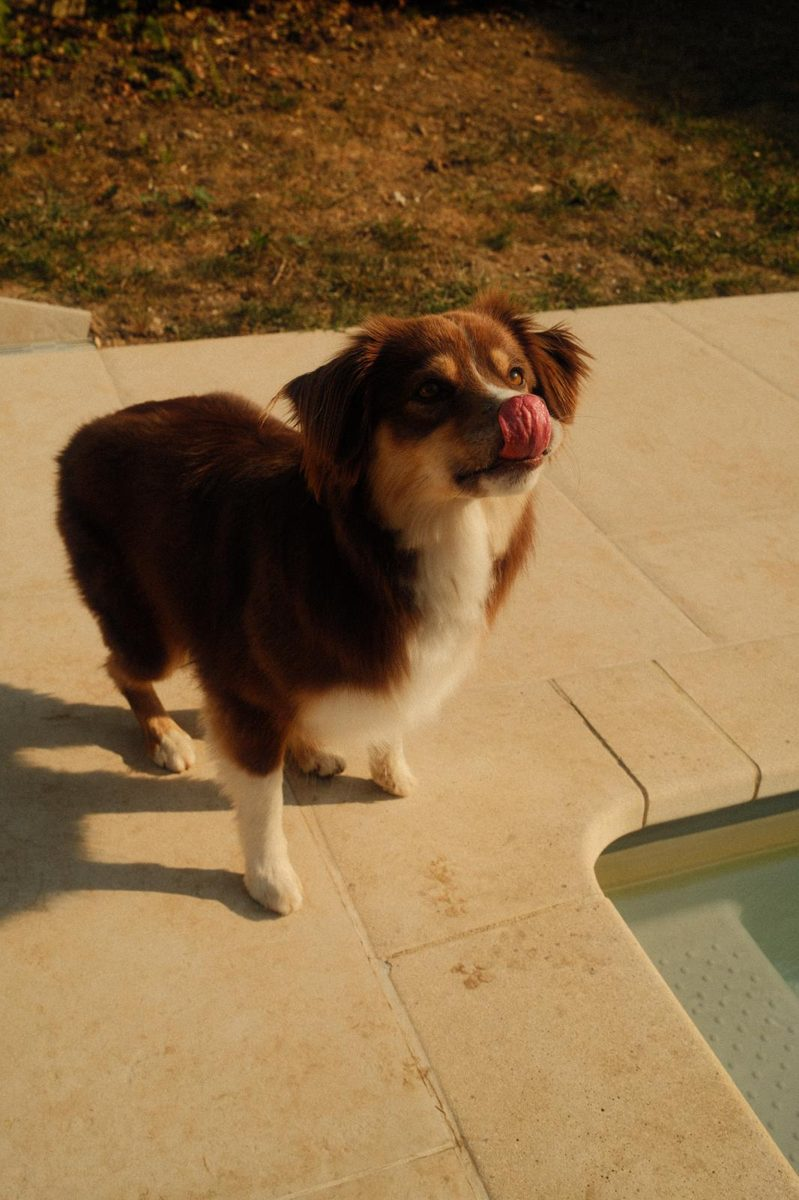
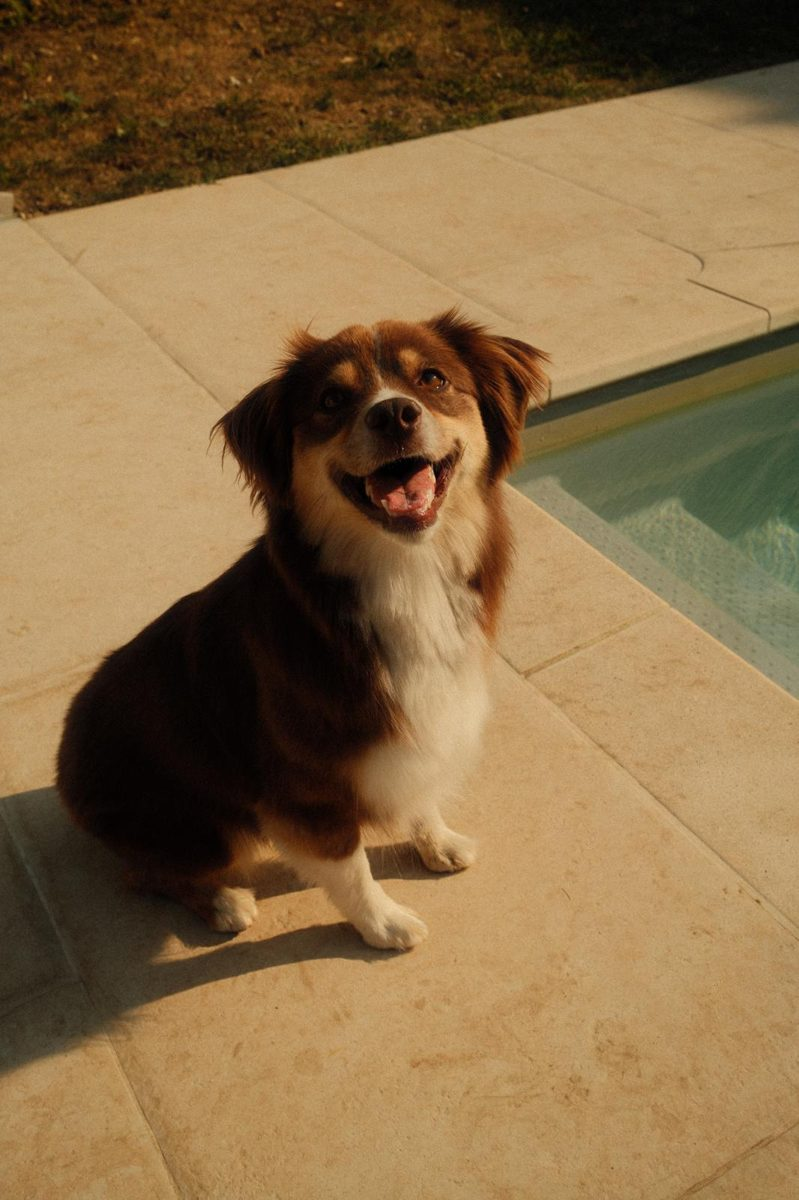
Couverture : Umi qui sourit au bord de la piscine, en pleine définition
Claude-Session: https://claude.ai/code/session_01EG8fNTLejWLcB2mSVUW29r

diff --git a/index.html b/index.html
@@ -174,7 +174,7 @@ img{max-width:100%}
     <div class="facts"><span>Rencontre offerte avant de commencer</span><span>Photos et vidéos après chaque sortie</span><span>Promenade individuelle</span></div>
   </div>
   <div class="hero-art">
-    <div class="arch"><img src="img/couverture.jpg" alt="Umi qui se lèche le museau au bord d'une piscine" width="799" height="1200" style="object-position:50% 40%"></div>
+    <div class="arch"><img src="img/couverture.jpg" alt="Umi qui sourit, langue sortie, au bord d'une piscine" width="799" height="1200" style="object-position:50% 45%"></div>
     <div class="seal">1re rencontre offerte<em>20 min, chez vous ou ailleurs</em></div>
   </div>
 </div></header>
@@ -259,7 +259,7 @@ img{max-width:100%}
 
 <section class="galerie" aria-label="Umi en photos"><div class="wrap">
   <div class="strip">
-    <img src="img/hero.jpg" alt="Umi souriante devant une porte" loading="lazy"><img src="img/herbe.jpg" alt="Umi allongée dans l'herbe avec son jouet" loading="lazy"><img src="img/einat-chiot.jpg" style="object-position:50% 15%" alt="Einat qui tient Umi bébé dans ses bras" loading="lazy"><img src="img/noeud.jpg" alt="Umi avec un nœud rose" loading="lazy"><img src="img/noel.jpg" alt="Umi devant un sapin illuminé" loading="lazy"><img src="img/neige.jpg" alt="Umi dans la neige" loading="lazy"><img src="img/fauteuil.jpg" alt="Umi installée dans un fauteuil" loading="lazy"><img src="img/jardin.jpg" alt="Umi de profil dans un jardin" loading="lazy"><img src="img/bisou.jpg" alt="Umi qui fait un bisou à Einat" loading="lazy"><img src="img/plage.jpg" alt="Umi sur la plage" loading="lazy"><img src="img/chiot-porte.jpg" alt="Umi bébé assise devant une porte" loading="lazy"><img src="img/plaid.jpg" alt="Umi enroulée dans un plaid" loading="lazy"><img src="img/cafe.jpg" alt="Umi couchée sous les chaises d'une terrasse de café" loading="lazy"><img src="img/jeu-herbe.jpg" alt="Umi qui joue dans l'herbe" loading="lazy"><img src="img/calin.jpg" alt="Einat et Umi bébé qui font un câlin" loading="lazy"><img src="img/sieste.jpg" alt="Umi qui fait la sieste, la langue sortie" loading="lazy"><img src="img/dodo-canape.jpg" alt="Umi qui dort sur le canapé" loading="lazy"><img src="img/coussin.jpg" alt="Umi sur le dos dans son coussin" loading="lazy"><img src="img/balade-copain.jpg" alt="Umi qui joue avec un copain pendant une balade" loading="lazy"><img src="img/canape.jpg" alt="Umi allongée sur le canapé" loading="lazy"><img src="img/sourire-canape.jpg" alt="Umi qui sourit sur le canapé" loading="lazy"><img src="img/einat-terrasse.jpg" alt="Einat et Umi bébé en terrasse" loading="lazy"><img src="img/glace.jpg" alt="Umi qui goûte une glace pour chien" loading="lazy"><img src="img/roule-herbe.jpg" alt="Umi qui se roule sur le dos dans l'herbe" loading="lazy"><img src="img/einat-panier.jpg" alt="Einat qui fait un câlin à Umi bébé" loading="lazy">
+    <img src="img/hero.jpg" alt="Umi souriante devant une porte" loading="lazy"><img src="img/herbe.jpg" alt="Umi allongée dans l'herbe avec son jouet" loading="lazy"><img src="img/einat-chiot.jpg" style="object-position:50% 15%" alt="Einat qui tient Umi bébé dans ses bras" loading="lazy"><img src="img/noeud.jpg" alt="Umi avec un nœud rose" loading="lazy"><img src="img/noel.jpg" alt="Umi devant un sapin illuminé" loading="lazy"><img src="img/neige.jpg" alt="Umi dans la neige" loading="lazy"><img src="img/fauteuil.jpg" alt="Umi installée dans un fauteuil" loading="lazy"><img src="img/jardin.jpg" alt="Umi de profil dans un jardin" loading="lazy"><img src="img/bisou.jpg" alt="Umi qui fait un bisou à Einat" loading="lazy"><img src="img/plage.jpg" alt="Umi sur la plage" loading="lazy"><img src="img/chiot-porte.jpg" alt="Umi bébé assise devant une porte" loading="lazy"><img src="img/plaid.jpg" alt="Umi enroulée dans un plaid" loading="lazy"><img src="img/cafe.jpg" alt="Umi couchée sous les chaises d'une terrasse de café" loading="lazy"><img src="img/jeu-herbe.jpg" alt="Umi qui joue dans l'herbe" loading="lazy"><img src="img/calin.jpg" alt="Einat et Umi bébé qui font un câlin" loading="lazy"><img src="img/sieste.jpg" alt="Umi qui fait la sieste, la langue sortie" loading="lazy"><img src="img/langue.jpg" alt="Umi qui se lèche le museau au bord d'une piscine" loading="lazy"><img src="img/coussin.jpg" alt="Umi sur le dos dans son coussin" loading="lazy"><img src="img/balade-copain.jpg" alt="Umi qui joue avec un copain pendant une balade" loading="lazy"><img src="img/canape.jpg" alt="Umi allongée sur le canapé" loading="lazy"><img src="img/sourire-canape.jpg" alt="Umi qui sourit sur le canapé" loading="lazy"><img src="img/einat-terrasse.jpg" alt="Einat et Umi bébé en terrasse" loading="lazy"><img src="img/glace.jpg" alt="Umi qui goûte une glace pour chien" loading="lazy"><img src="img/roule-herbe.jpg" alt="Umi qui se roule sur le dos dans l'herbe" loading="lazy"><img src="img/einat-panier.jpg" alt="Einat qui fait un câlin à Umi bébé" loading="lazy">
   </div>
 </div></section>
 
